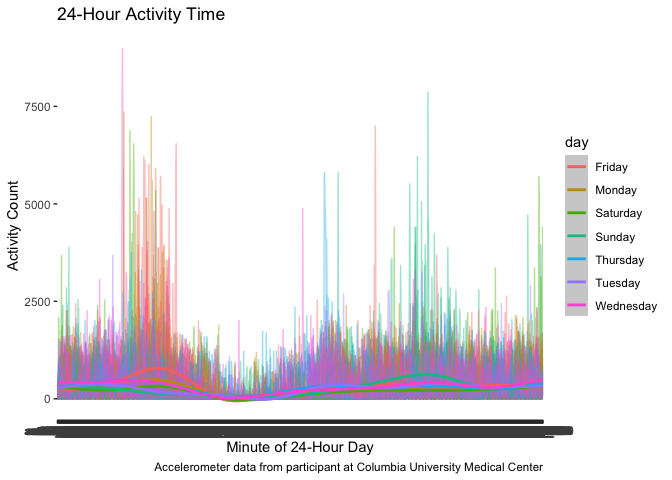
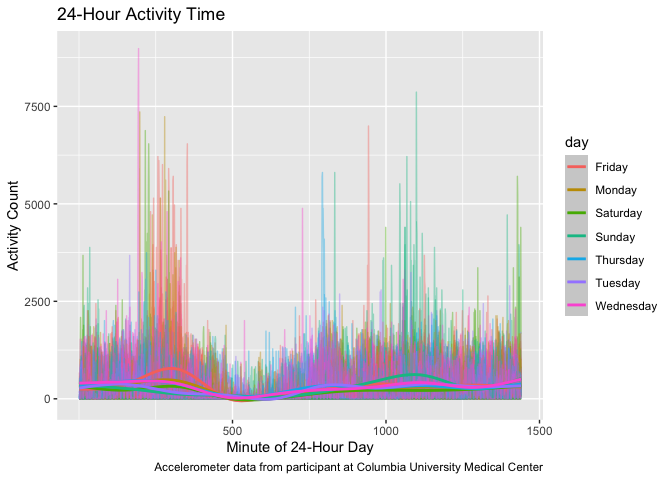
Problem 3 - snowfall description

diff --git a/p8105_hw3_als2377.md b/p8105_hw3_als2377.md
@@ -8,14 +8,14 @@ This is my solution for Homework 3.
 library(tidyverse)
 ```
 
-    ## ── Attaching packages ───────────── tidyverse 1.3.0 ──
+    ## ── Attaching packages ───────────────────────────────── tidyverse 1.3.0 ──
 
     ## ✓ ggplot2 3.3.2     ✓ purrr   0.3.4
     ## ✓ tibble  3.0.3     ✓ dplyr   1.0.2
     ## ✓ tidyr   1.1.2     ✓ stringr 1.4.0
     ## ✓ readr   1.3.1     ✓ forcats 0.5.0
 
-    ## ── Conflicts ──────────────── tidyverse_conflicts() ──
+    ## ── Conflicts ──────────────────────────────────── tidyverse_conflicts() ──
     ## x dplyr::filter() masks stats::filter()
     ## x dplyr::lag()    masks stats::lag()
 
@@ -202,15 +202,21 @@ accel_df %>%
 
 It is difficult to identify overall trends with this table but we can
 see that the minimum total activity, a significant decrease from the
-average total activity count, occurred on Saturdays.
+average total activity count, occurred on Saturdays. There were
+fluctuations of activity throughout the week.
 
 Make a single-panel plot.
 
 ``` r
 accel_df %>% 
+  mutate_at(vars(activity_minute), as.integer) %>% 
   ggplot(aes(x = activity_minute, y = activity_count, group = day_id, color = day)) +
   geom_line(alpha = .4) +
   geom_smooth(aes(group = day)) +
+  scale_x_continuous(
+    breaks = c(500, 1000, 1500), 
+    labels = c("500", "1000", "1500")
+  ) + 
   labs(
     title = "24-Hour Activity Time", 
     x = "Minute of 24-Hour Day", 
@@ -224,9 +230,10 @@ accel_df %>%
 ![](p8105_hw3_als2377_files/figure-gfm/unnamed-chunk-9-1.png)<!-- -->
 
 From this graph, we can see that the participant consistently was most
-active early in the morning, with the activity level elevated on Friday.
-There is a also a peak in activity on Sunday in the evening. The
-participant was least active around 10am on all days.
+active early in the morning, around 4am, with the activity level
+elevated on Friday. There is also a peak in activity on Sunday in the
+evening around 8pm. The participant was least active around 8am on all
+days.
 
 ## Problem 3
 
@@ -237,8 +244,10 @@ data("ny_noaa")
 
 This dataset contains 2595176 rows and 7 columns. The variables of the
 dataset include: id, date, prcp, snow, snwd, tmax, tmin. There are many
-missing values for the precipitation, snowfall, snowdepth, and
-temperature variables.
+missing values for the precipitation, snowfall, snow depth, and
+temperature variables; some stations have missing values for all of
+these variables. Maximum and minimum temperatures, in particular, are
+missing from many stations.
 
 Clean and mutate ny\_noaa dataset.
 
@@ -250,6 +259,8 @@ mutate(tmax = as.numeric(tmax)) %>%
   mutate(tmin = tmin/10) %>% 
   mutate(tmax = tmax/10)
 ```
+
+The most commonly observed values for snowfall are 0 and missing.
 
 Make a two-panel plot showing the average max temp in Jan and July.
 
@@ -264,11 +275,12 @@ tmax_weather =
     ## `summarise()` regrouping output by 'id', 'year' (override with `.groups` argument)
 
 ``` r
-ggplot(tmax_weather, aes(x = year, y = mean_tmax)) + geom_point() + facet_grid(~ month) +
+ggplot(tmax_weather, aes(x = year, y = mean_tmax, group = id)) + geom_point() + facet_grid(~ month) +
   labs(
-    title = "Mean average temperature for January and July across stations and years", 
+    title = "Mean average temperature for January and July across stations and years",
     x = "year", 
-    y = "average maximum temperature (C)")
+    y = "average maximum temperature (C)") +
+    theme_set(theme_minimal())
 ```
 
     ## Warning: Removed 5970 rows containing missing values (geom_point).
@@ -304,7 +316,7 @@ p3_plot_3 =
     x = "Year", 
     y = "Snowfall Distribution(mm)")
 
-(p3_plot_2 + p3_plot_3)
+(p3_plot_2 + p3_plot_3) 
 ```
 
     ## Warning: Removed 1136276 rows containing non-finite values (stat_binhex).
@@ -312,10 +324,10 @@ p3_plot_3 =
 ![](p8105_hw3_als2377_files/figure-gfm/unnamed-chunk-13-1.png)<!-- -->
 
 The Maximum Temperature vs. Minimum Temperature plot shows a pattern in
-which maximum temperature temperature as minimum temperature increases.
-There are several outliers, notably a couple data points that represent
-a minimum and maximum temperature of 60 degrees Celsius. We the most
-observations to be concentrated between 0 and 30 degrees celsius.
+which maximum temperature temperature increases as minimum temperature
+increases. There are several outliers, notably a couple data points that
+represent a minimum and maximum temperature of 60 degrees Celsius. The
+most observations are concentrated between 0 and 30 degrees celsius.
 
 The Snowfall Distribution plot indicates a slight increase in median
 rainfall from 1980 to 1995 and then a decrease from 1995 to 2010.
